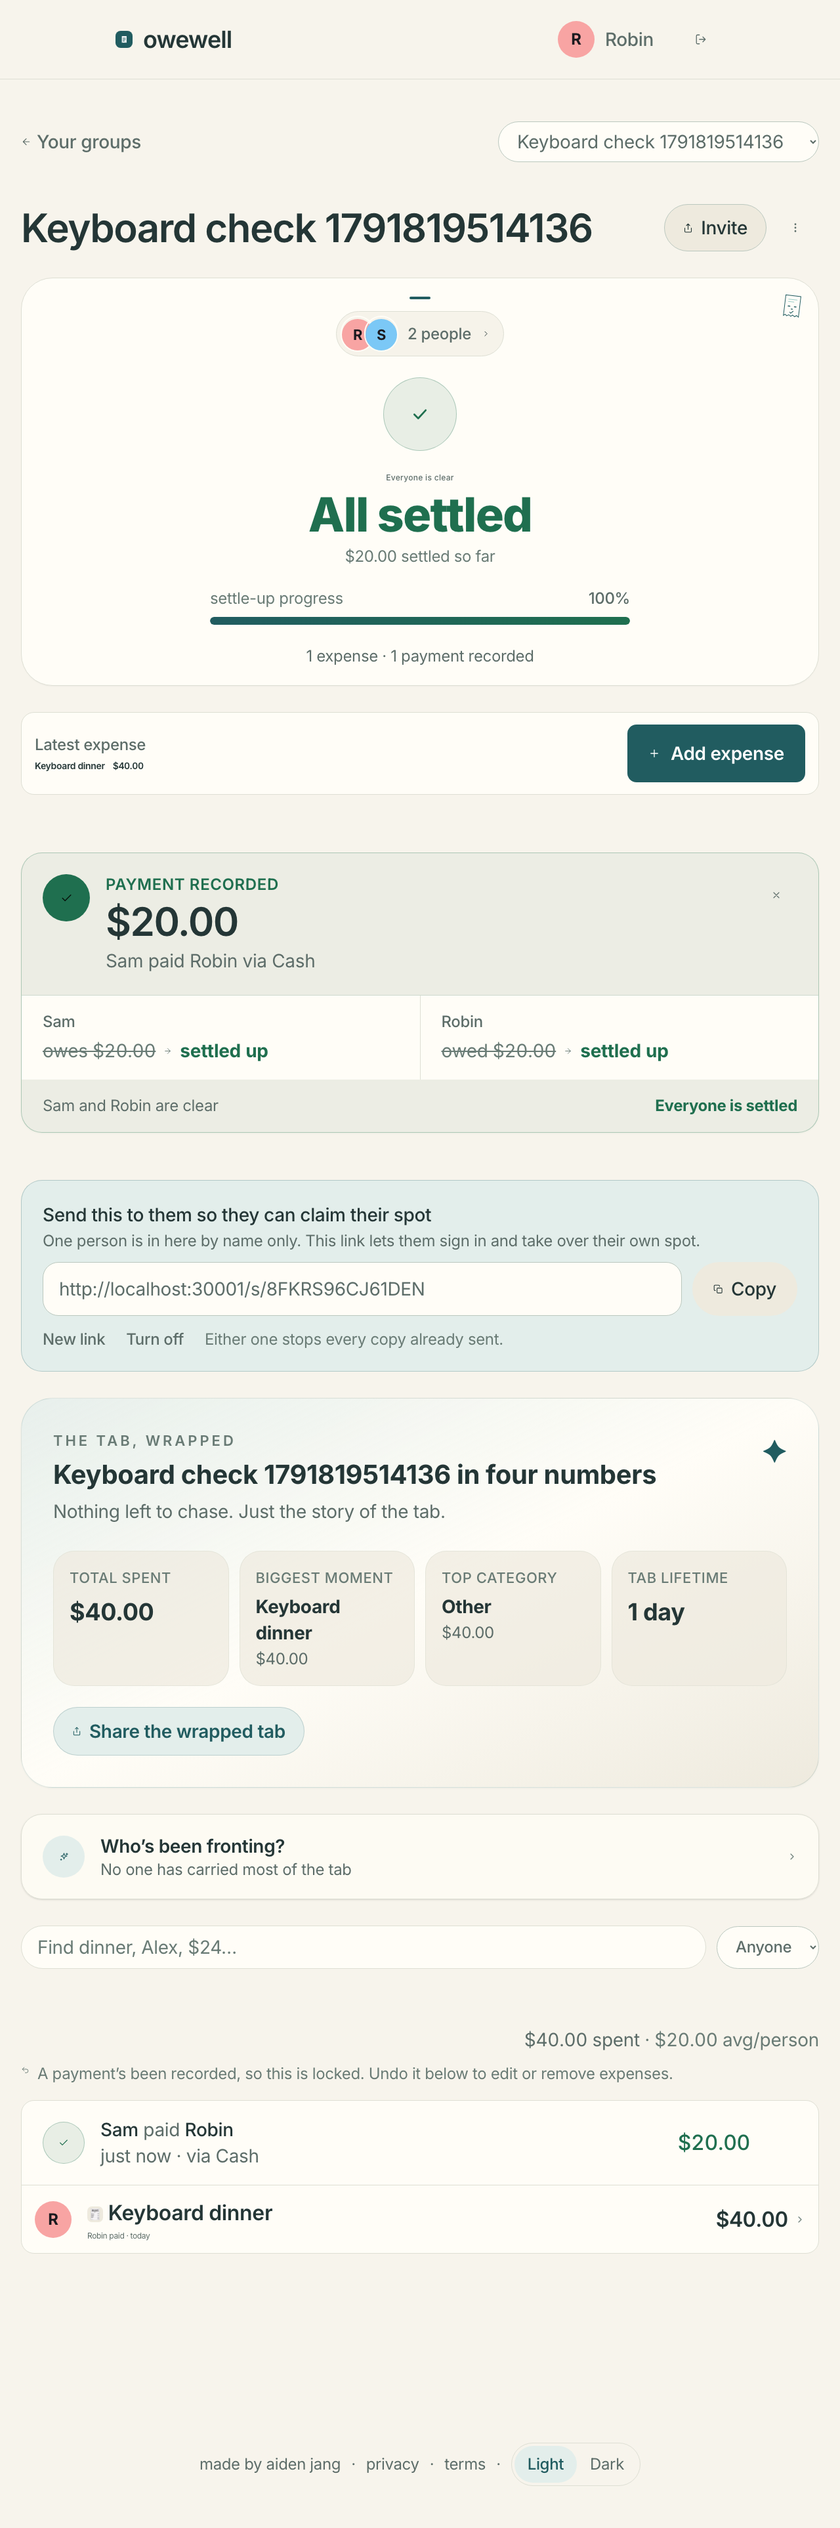
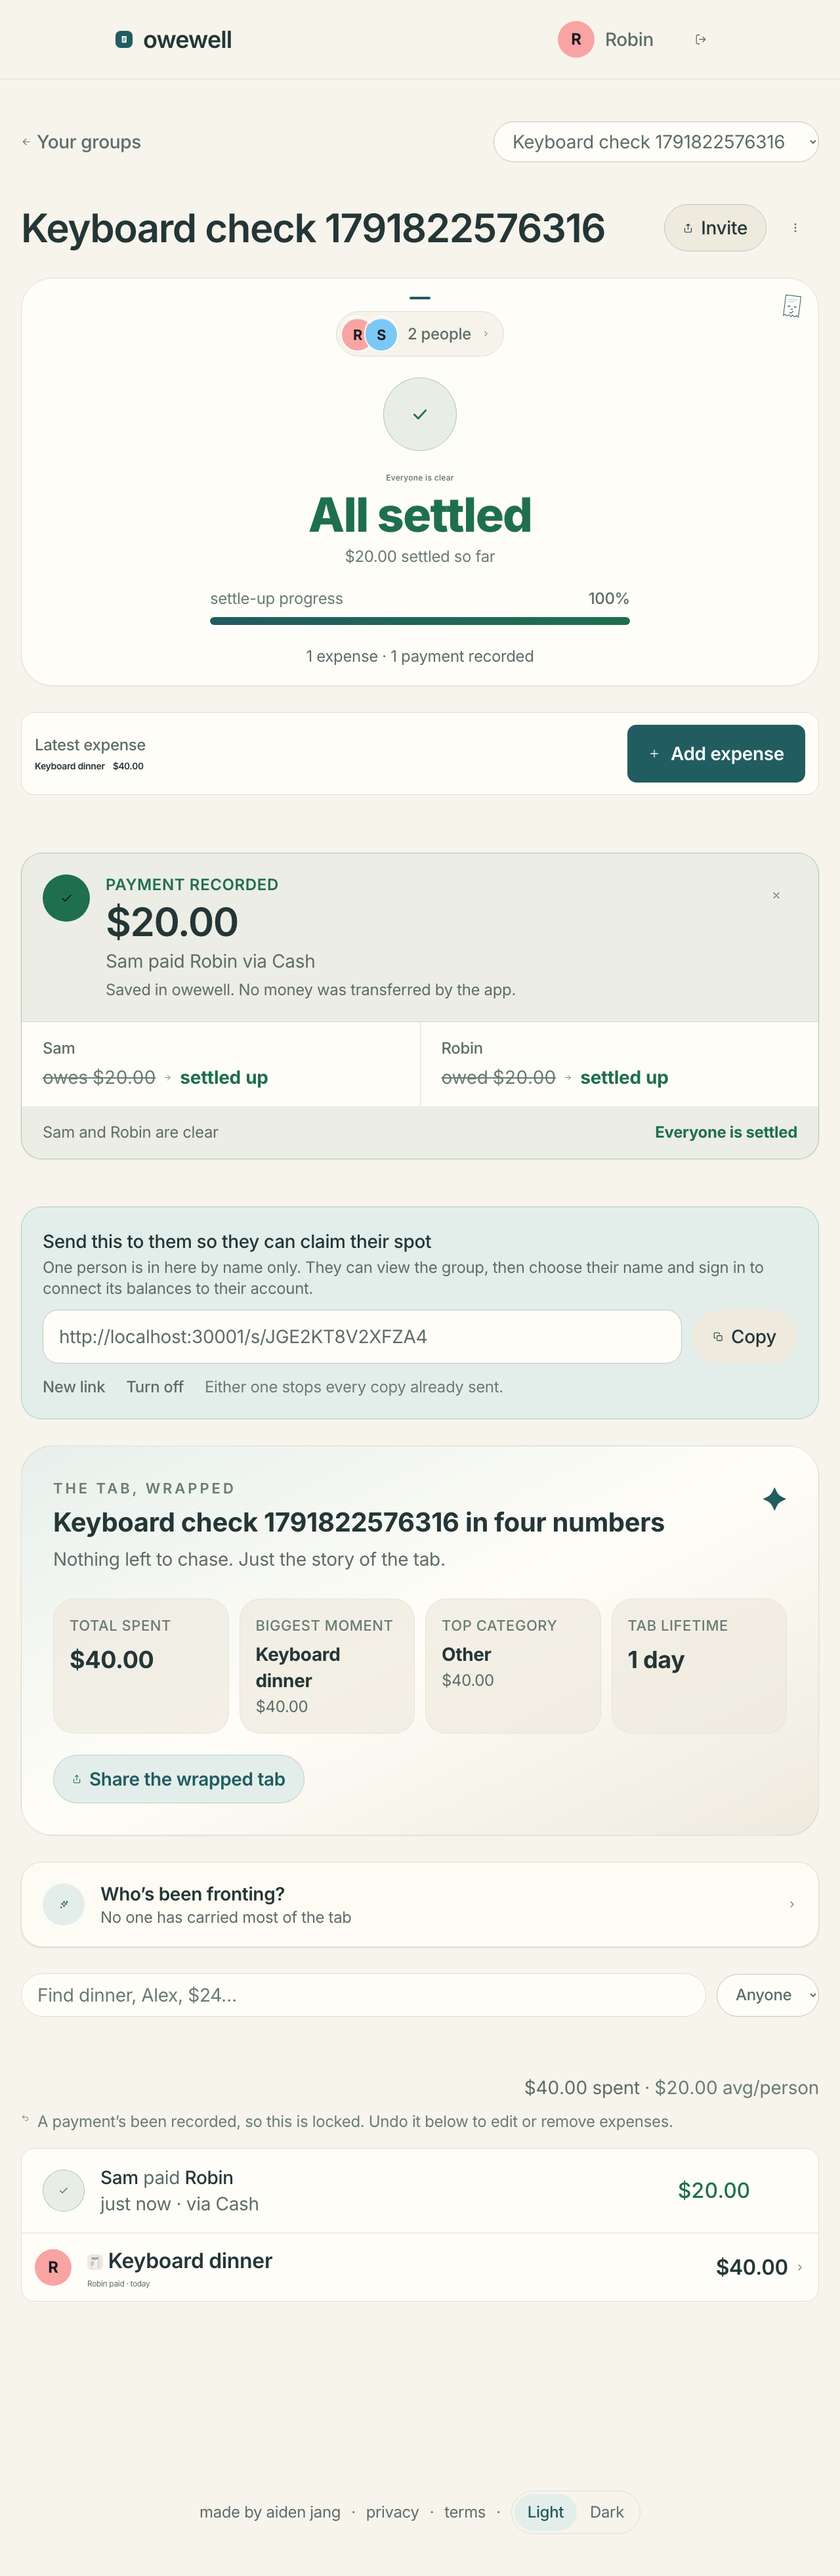
fix: clarify payment records and shared group invites

diff --git a/packages/web/src/pages/SharedGroupPage.tsx b/packages/web/src/pages/SharedGroupPage.tsx
@@ -180,14 +180,23 @@ export function SharedGroupPage(): ReactNode {
                 {hasOpenSeats ? "You've been invited" : 'Shared with you'}
               </p>
             )}
-            <h1 className="mt-1 font-display text-3xl font-semibold tracking-tight">{summary.groupName}</h1>
+            <h1 className="mt-1 break-words font-display text-3xl font-semibold tracking-tight">
+              {summary.groupName}
+            </h1>
             <p className="mt-1 text-sm text-muted">
               {summary.memberCount} {summary.memberCount === 1 ? 'person' : 'people'}
             </p>
 
             <div className="surface mt-5 rounded-3xl p-6 sm:p-7">
               <p className="text-sm font-medium text-muted">Spent together</p>
-              <p className="mt-1 font-display text-5xl font-extrabold tracking-tight sm:text-6xl">
+              <p
+                className="mt-1 font-display text-5xl font-extrabold tracking-tight sm:text-6xl"
+                style={
+                  fmt(summary.totalSpentCents).length > 9
+                    ? { fontSize: `clamp(1.5rem, ${90 / fmt(summary.totalSpentCents).length}vw, 3.75rem)` }
+                    : undefined
+                }
+              >
                 {fmt(summary.totalSpentCents)}
               </p>
               <p className="mt-2 text-xs text-faint">
@@ -229,6 +238,12 @@ export function SharedGroupPage(): ReactNode {
 
             <section className="mt-8">
               <h2 className="text-sm font-medium text-muted">Members</h2>
+              {!viewerIsMember && (
+                <p className="mt-2 text-xs text-muted">
+                  Viewing doesn’t join the group. If your name is listed, choose “This is me” to connect that
+                  spot and its balances to your account. Sign-in is required.
+                </p>
+              )}
               <ul className="mt-3 space-y-2">
                 {summary.members.map((m, i) => {
                   const label = balanceLabel(
@@ -250,7 +265,7 @@ export function SharedGroupPage(): ReactNode {
                       <span className="flex min-w-0 flex-1 items-center gap-3">
                         <Avatar name={m.displayName} />
                         <span className="flex min-w-0 flex-1 flex-col gap-0.5">
-                          <span className="break-words font-medium">{m.displayName}</span>
+                          <span className="font-medium [overflow-wrap:anywhere]">{m.displayName}</span>
                           {label.text && (
                             <span className={`tnum truncate text-xs font-medium ${label.tone}`}>
                               {label.text}
@@ -343,9 +358,7 @@ export function SharedGroupPage(): ReactNode {
               </button>
             ) : hasOpenSeats ? (
               <p className="mt-8 text-sm text-muted">
-                See your name above? Tap <span className="font-medium text-accent">This is me</span> to claim
-                join this group
-                {user ? '.' : '. Sign in or create an account; we’ll bring you back to this name.'}
+                Choose only your own name. If it’s missing, ask a member to add you.
               </p>
             ) : (
               <p className="mt-8 text-sm text-muted">

diff --git a/packages/web/src/pages/GroupDetailPage.tsx b/packages/web/src/pages/GroupDetailPage.tsx
@@ -553,8 +553,8 @@ export function GroupDetailPage(): ReactNode {
                     : "Send this to the people you're splitting with",
                 hint:
                   invite.unclaimed > 0
-                    ? `${invite.unclaimed === 1 ? 'One person is' : `${invite.unclaimed} people are`} in here by name only. This link lets them sign in and take over their own spot.`
-                    : "It's just you in here so far. Anyone with the link can see the group and claim their spot.",
+                    ? `${invite.unclaimed === 1 ? 'One person is' : `${invite.unclaimed} people are`} in here by name only. They can view the group, then choose their name and sign in to connect its balances to their account.`
+                    : 'Add people by name first so they have a spot to connect. Anyone with the link can view the group.',
               }
             : {})}
         />

diff --git a/packages/web/src/components/SettlementReceipt.tsx b/packages/web/src/components/SettlementReceipt.tsx
@@ -39,13 +39,14 @@ export function SettlementReceipt({
           >
             Payment recorded
           </p>
-          <p className="mt-0.5 font-display text-3xl font-semibold tracking-tight text-ink">
+          <p className="mt-0.5 break-words font-display text-3xl font-semibold tracking-tight text-ink">
             {fmt(settlement.amountCents)}
           </p>
-          <p className="mt-0.5 text-sm text-muted">
+          <p className="mt-0.5 text-sm text-muted [overflow-wrap:anywhere]">
             {receipt.fromName} paid {receipt.toName}
             {settlement.method ? ` via ${PAYMENT_METHOD_LABELS[settlement.method]}` : ''}
           </p>
+          <p className="mt-1 text-xs text-muted">Saved in owewell. No money was transferred by the app.</p>
         </div>
         <button
           type="button"

diff --git a/packages/web/src/components/SettleUpPanel.tsx b/packages/web/src/components/SettleUpPanel.tsx
@@ -212,7 +212,7 @@ export function SettleUpPanel({
                   <Avatar name={payment.fromName} size="sm" />
                   <span className="flex min-w-0 flex-col">
                     <span className="tnum font-semibold">{fmt(payment.amountCents)}</span>
-                    <span className="text-xs text-muted">
+                    <span className="text-xs text-muted [overflow-wrap:anywhere]">
                       <span className="font-medium text-ink">{payment.fromName}</span> pays{' '}
                       <span className="font-medium text-ink">{payment.toName}</span>
                     </span>

diff --git a/packages/web/src/components/InviteLink.tsx b/packages/web/src/components/InviteLink.tsx
@@ -32,7 +32,7 @@ export function InviteLink({
       <p className="text-sm font-medium">{headline ?? 'Group invite link'}</p>
       <p className="mt-0.5 text-xs text-muted">
         {hint ??
-          'Anyone with this link can view the group. People you added by name can sign in and claim their spot to join and edit.'}
+          'Anyone with this link can view the group. To edit, choose your existing name and sign in. This connects that spot and its balances to your account.'}
       </p>
       <div className="mt-2 flex gap-2">
         <input

diff --git a/docs/ui-qa/README.md b/docs/ui-qa/README.md
@@ -298,3 +298,23 @@ The settled recap now chooses columns from available space and text size, keepin
 readable at enlarged text sizes. Desktop and narrow captures were inspected. Static checks,
 the production build, frontend tests and browser journeys passed. The combined verification
 runner hit the backend property timeout; the unchanged property passed separately.
+
+## Payment records, invites and crowded groups — October 12
+
+The payment form, settle-up panel and confirmation already explained that owewell does not send
+money. The saved receipt now makes that distinction explicit too. Invite copy distinguishes
+viewing from connecting an existing person and balances to a signed-in account.
+
+The capture script’s optional `OWEWELL_UI_STRESS=1` fixture uses a crowded group, long unbroken
+names, a long group title and large amounts. `stress-group` and `stress-shared` captures were
+inspected in both themes at desktop and phone widths, with additional narrow overflow checks.
+Names wrap instead of forcing controls out of their rows; shared totals scale without shortening
+the number. All fixture data stays inside the browser capture script. Native phone keyboards,
+installed-app offline recovery and spoken screen-reader behavior still require a real device;
+desktop browser emulation cannot verify them.
+
+Static gates, the production build and frontend tests passed. Browser journeys passed, with
+the keyboard journey retried separately after the first run closed its member sheet before
+the input-reset assertion. Updated receipt and invite captures were inspected at enlarged text
+sizes. The combined runner stopped on the existing backend ledger-property timeout; the
+unchanged property passed independently without changing repository timeouts or assertions.

diff --git a/DESIGN.md b/DESIGN.md
@@ -69,3 +69,5 @@ Dialog keyboard traps include disclosure summaries and exclude hidden controls. 
 handle their own keys. Closing Members returns to Group options; the first expense returns to
 the replacement Add expense action when the empty state disappears. Saving and payment
 recording expose polite status announcements and busy button states.
+
+Payment receipts explicitly distinguish a saved ledger record from a money transfer. Shared invites explain that viewing is read-only and choosing an existing name connects that spot and its balances to an account. Long unbroken names wrap in payment and shared-member rows; large shared totals scale to fit without shortening the amount.
